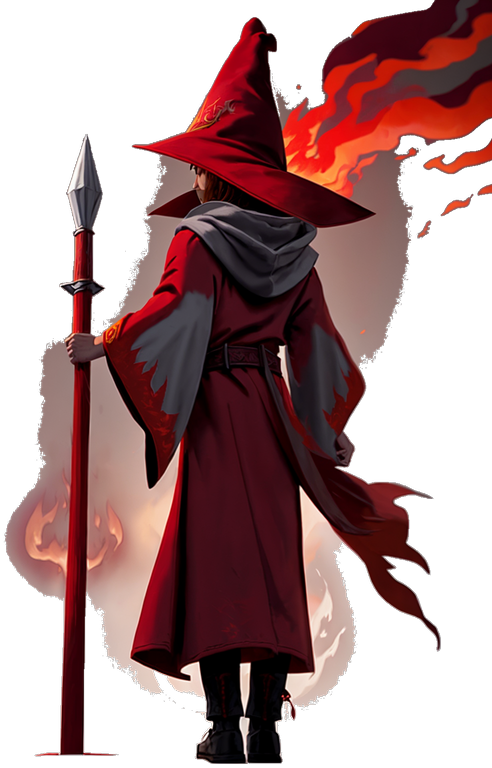
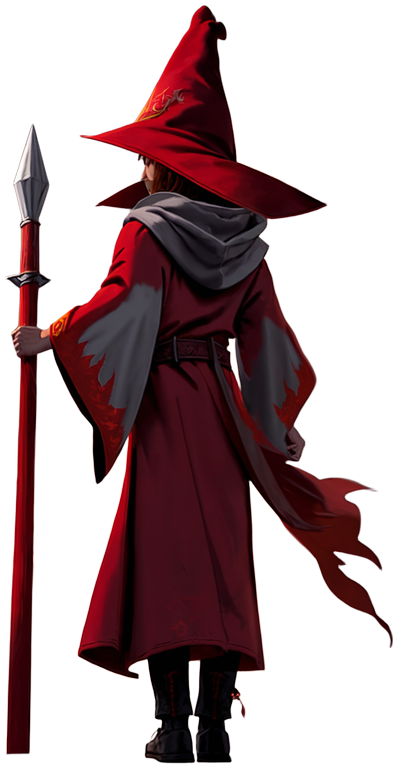
背景の切り抜きを BiRefNet に変更
- tools/comfy/txt2img_hires_bg.json：生成の最後に ComfyUI の Remove Background（BiRefNet）で
  背景を消し、透明つきの画像で受け取る（ComfyUI に画像を送らない）
- tools/comfy_generate.gd：bg=（auto・remove・keep）を追加。敵・主人公・クリーチャーは自動で背景を消す
- tools/resize_image.gd：trim=true で透明な余白を切り落としてから縮小
- スライムのプロンプトを不透明な体に。スライム・主人公の背中を BiRefNet で切り抜いた絵に差し替え
- art_style.md：BiRefNet（MIT、2026-10-16 確認）と背景の切り抜きの手順、生成ログを更新
- CLAUDE.md：使用モデルとコマンド例を更新（灰色抜きは予備）
- テスト追加（186件）

diff --git a/docs/art_style.md b/docs/art_style.md
@@ -102,7 +102,8 @@ spell effect, dynamic angle, icon-like readability
 full body {敵の説明}, front view, facing the viewer, menacing monster, charming creature design
 ```
 - `cute` は使わない（人の女の子が出やすくなるため）
-→ 生成後に背景透過する（tools/remove_gray_bg.gd。灰色背景のほうが切り抜きやすい）
+→ 背景は ComfyUI の Remove Background（BiRefNet）で、生成と同時に消す（tools/comfy_generate.gd が敵・主人公・クリーチャーで自動で行う。5章「背景の切り抜き」）
+- スライムなど半透明になりやすいものは `solid opaque body, no bubble` を足す（泡や半透明の部分は切り抜きが不安定なため）
 
 ### 主人公・自分のクリーチャー
 正面向き（主人公のみ。主人公選択などで使う）
@@ -140,7 +141,8 @@ vertical composition, empty center area, no characters, soft depth of field
 - 「cute」を入れた敵（スライム）は、人の女の子が主役になり、露出も出た → ネガティブで人と露出を防ぐ
 - カードは何もしないと魔法使いの上半身が主役になる → 魔法・物を主役にする（2回目の試し描きで、火球・盾・狼とも主役が分かる絵になった）
 - 灰色の背景を `:1.4` で強めると、体・服まで灰色になる → 背景は `:1.2` にして、体の色を強める
-- 灰色の背景は、生成すると中央が少し明るいグラデーションになる。tools/remove_gray_bg.gd は、少しずつ変わる灰色をたどって抜けるようにしてある
+- 灰色の背景は、生成すると中央が少し明るいグラデーションになる。tools/remove_gray_bg.gd は、少しずつ変わる灰色をたどって抜けるようにしてある（2026-10-16 からは BiRefNet で消す。灰色抜きは BiRefNet が使えない時の予備）
+- BiRefNet で消すと、輪郭がきれいで光のにじみも残らない。灰色抜きでは、炎のまわりの光や泡の縁が残った
 
 ## 5. 生成設定（SD1.5・2070 SUPER／VRAM 8GB 想定）
 
@@ -172,6 +174,16 @@ vertical composition, empty center area, no characters, soft depth of field
 3. 気に入った構図が出たら、seed を固定して2段目だけ調整する
 - アップスケールモデルも商用利用可のライセンスか確認する
 
+### 背景の切り抜き（敵・主人公・クリーチャー）
+| 項目 | 内容 |
+|---|---|
+| 方法 | ComfyUI 標準の Remove Background ノード（txt2img_hires_bg.json の最後で、背景を消して透明つきの画像にする） |
+| モデル | BiRefNet（`birefnet.safetensors`、Hugging Face の Comfy-Org/BiRefNet。`ComfyUI/models/background_removal/` に置く） |
+| ライセンス | MIT（商用利用可。利用者が 2026-10-16 に確認） |
+| 予備 | BiRefNet が使えない時は tools/remove_gray_bg.gd（灰色の背景を色でたどって抜く。光や半透明の部分は残りやすい） |
+
+- 背景を消した絵は、`tools/resize_image.gd` の `trim=true` で透明な余白を切り落としてから縮小し、assets/ に置く
+
 ### その他
 - 画風固定：同じモデル・同じ共通プロンプトを使い回す。慣れたら画風LoRA（SD1.5用）で統一
 - 気に入った1枚の **seed とプロンプトを下の生成ログに記録**しておく
@@ -188,7 +200,7 @@ vertical composition, empty center area, no characters, soft depth of field
   2. `--headless -s tools/link_art.gd`（ファイル名でデータの絵の項目に結び付ける）
   3. 検証（`tools/validate_data.gd`）
 - 画像がまだ無い所は、図形で仮表示する（カード＝種別カラーと記号、キャラクター＝種族ごとの形、アイコン＝記号、戦闘背景＝ダンジョンの2色のグラデーション）
-- 後処理（背景透過・リサイズ・Godotのインポート設定）はスクリプト化して `tools/` に置く（実際の画像が届いてから作る）
+- 後処理はスクリプト化して `tools/` に置いている：背景の切り抜き（comfy_generate.gd の bg=、予備は remove_gray_bg.gd）、縮小と余白の切り落とし（resize_image.gd）。Godot の読み込み設定は初期設定のまま
 - 素材を差し替えてもゲームが壊れないよう、画像パスはデータ側（カード・主人公・クリーチャー・敵・装備・ダンジョンの絵の項目、アイコンは `data/config/icon_set.tres`）で管理する
 
 ## 7. 品質チェックリスト
@@ -207,5 +219,5 @@ vertical composition, empty center area, no characters, soft depth of field
 | card_fireball.png | A-Zovya V4-VAE | 3000 | 512×512 / 0.4 | 2026-10-15 試し描き2回目で採用（画風A）。512px に縮小 |
 | card_guard.png | A-Zovya V4-VAE | 3000 | 512×512 / 0.4 | 2026-10-15 試し描き2回目で採用（画風A）。512px に縮小 |
 | card_summon_wolf.png | A-Zovya V4-VAE | 3003 | 512×512 / 0.4 | 2026-10-15 試し描き2回目で採用（画風A）。512px に縮小 |
-| enemy_slime.png | A-Zovya V4-VAE | 4003 | 512×768 / 0.4 | 2026-10-15 試し描き3回目。組み込みの確認用（背景抜きの精度に課題） |
-| hero_flame_mage_back.png | A-Zovya V4-VAE | 4001 | 512×768 / 0.4 | 2026-10-15 試し描き3回目。組み込みの確認用（炎のまわりの光が少し残る） |
+| enemy_slime.png | A-Zovya V4-VAE | 5001 | 512×768 / 0.4 | 2026-10-16 BiRefNet で背景を消して採用（不透明な体のプロンプト）。高さ640に縮小 |
+| hero_flame_mage_back.png | A-Zovya V4-VAE | 4001 | 512×768 / 0.4 | 2026-10-15 試し描き3回目で採用。2026-10-16 に同じ seed で作り直し、BiRefNet で背景を消した。高さ768に縮小 |

diff --git a/CLAUDE.md b/CLAUDE.md
@@ -76,7 +76,7 @@
 - コミットと GitHub へのプッシュ（git push）は、指示があったときだけ行う
 - 画像の生成は、利用者が起動したこのパソコンの ComfyUI（http://127.0.0.1:8188）に tools/comfy_generate.gd から頼んでよい
     - 画像は「直接受け取る機能」（SaveImageWebsocket）でプロジェクトの中（art_trials/）に保存し、ComfyUI のフォルダには保存させない
-    - ComfyUI の起動・停止、モデル・拡張機能の追加は利用者が行う。ライセンスを確認したモデル（docs/art_style.md に記録）だけを使う
+    - ComfyUI の起動・停止、モデル・拡張機能の追加は利用者が行う。ライセンスを確認したモデル（docs/art_style.md に記録）だけを使う（生成：A-Zovya RPG、背景の切り抜き：BiRefNet）
     - 試し描きの画像（art_trials/）は Git に入れない。採用した絵だけを assets/ に置く
 - プロジェクトフォルダ以外のファイルは絶対に変更、更新をしない（例外：%APPDATA%\MagicTheSpire\ の中の、このゲームのセーブデータなど、このプロジェクトに関連するファイルだけは、追加・書き換えしてよい。それ以外の %APPDATA%\ の中は変更しない）
 
@@ -96,8 +96,9 @@
 - バトルの自動実行（コンソールに経過を表示。-- の後ろは省略可）：& "C:\Program Files\Godot_v4.7.2-stable_win64\Godot_v4.7.2-stable_win64_console.exe" --headless -s tools/simulate_battle.gd -- seed=1 enemy=boss_witch hero=flame_mage
 - ラン1周の自動実行（コンソールに経過を表示。-- の後ろは省略可）：& "C:\Program Files\Godot_v4.7.2-stable_win64\Godot_v4.7.2-stable_win64_console.exe" --headless -s tools/simulate_run.gd -- seed=1 hero=flame_mage dungeon=lost_forest
 - assets/ に置いた画像を、ファイル名でデータの絵の項目に結び付ける（先に --import を実行する）：& "C:\Program Files\Godot_v4.7.2-stable_win64\Godot_v4.7.2-stable_win64_console.exe" --headless -s tools/link_art.gd
-- 絵の生成（ComfyUI を起動しておく。結果は art_trials/ へ）：& "C:\Program Files\Godot_v4.7.2-stable_win64\Godot_v4.7.2-stable_win64_console.exe" --headless -s tools/comfy_generate.gd -- ids=card_fireball,enemy_slime count=4 style=A
-- 灰色の背景を透明にして assets/ に置く：& "C:\Program Files\Godot_v4.7.2-stable_win64\Godot_v4.7.2-stable_win64_console.exe" --headless -s tools/remove_gray_bg.gd -- in=res://art_trials/enemy_slime/A_azovya_s4003.png out=res://assets/enemies/enemy_slime.png height=640
+- 絵の生成（ComfyUI を起動しておく。結果は art_trials/ へ。敵・主人公・クリーチャーは背景を自動で消す。bg=keep で消さない）：& "C:\Program Files\Godot_v4.7.2-stable_win64\Godot_v4.7.2-stable_win64_console.exe" --headless -s tools/comfy_generate.gd -- ids=card_fireball,enemy_slime count=4 style=A
+- 背景を消した絵を、余白を切り落として縮小し assets/ に置く：& "C:\Program Files\Godot_v4.7.2-stable_win64\Godot_v4.7.2-stable_win64_console.exe" --headless -s tools/resize_image.gd -- in=res://art_trials/enemy_slime/A_azovya_s5001_bg.png out=res://assets/enemies/enemy_slime.png height=640 trim=true
+- （予備）灰色の背景を色でたどって透明にする（BiRefNet が使えない時）：& "C:\Program Files\Godot_v4.7.2-stable_win64\Godot_v4.7.2-stable_win64_console.exe" --headless -s tools/remove_gray_bg.gd -- in=res://art_trials/enemy_slime/A_azovya_s4003.png out=res://assets/enemies/enemy_slime.png height=640
 - 画像を縮小して assets/ に置く：& "C:\Program Files\Godot_v4.7.2-stable_win64\Godot_v4.7.2-stable_win64_console.exe" --headless -s tools/resize_image.gd -- in=res://art_trials/card_fireball/A_azovya_s3000.png out=res://assets/cards/card_fireball.png height=512
 - データの型から項目を削除した後、ファイルに残った古い項目を消す：& "C:\Program Files\Godot_v4.7.2-stable_win64\Godot_v4.7.2-stable_win64_console.exe" --headless -s tools/resave_data.gd -- dir=res://data/enemies
 - スクリプトを追加・名前変更した後は、先に --headless --import を実行する（クラス名の登録のため）
